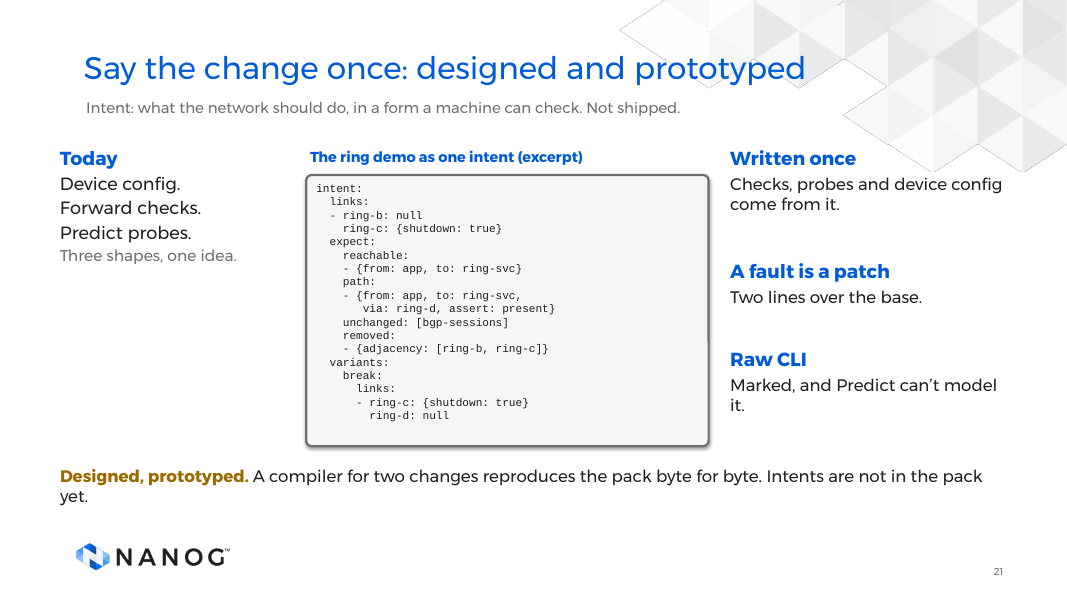
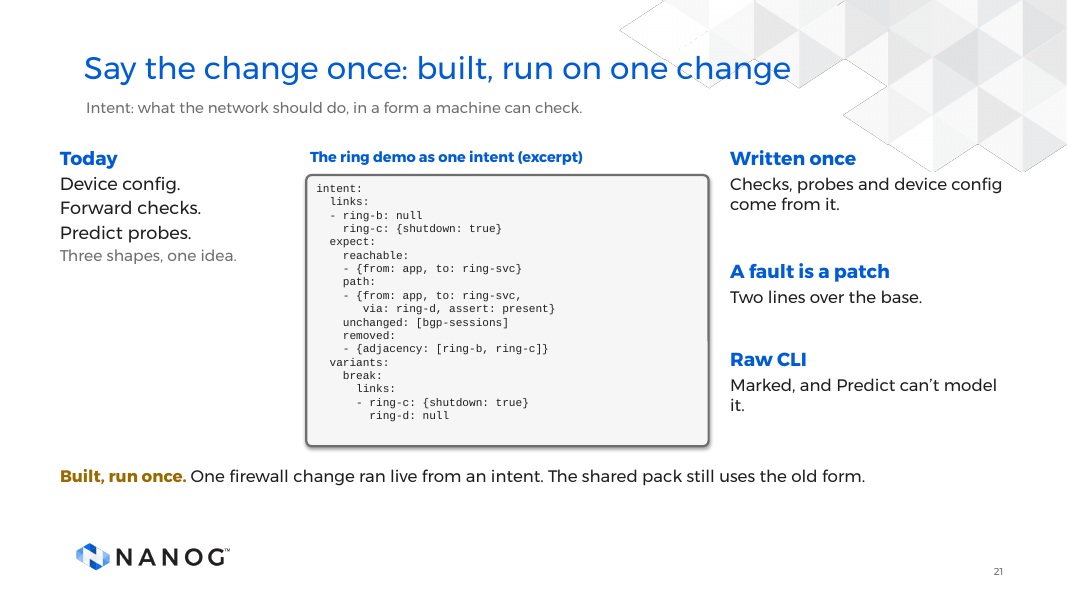
docs: NANOG 98 talk, deck v15

Changed region(s): [[0.0619, 0.78, 0.9278, 0.84], [0.3711, 0.09, 0.7732, 0.21]]

diff --git a/docs/talks/nanog98/README.md b/docs/talks/nanog98/README.md
@@ -1,10 +1,10 @@
 # NANOG 98: What Building a Network Emulation Platform Taught Me About Digital Twins
 
-Monday 2026-10-19, 2:00 PM Eastern, Versailles. 45 minutes including Q&A. Deck v14 (final slides). 25 presented slides (39:00), Questions (6:00), and an appendix that is not presented.
+Monday 2026-10-19, 2:00 PM Eastern, Versailles. 45 minutes including Q&A. Deck v15: 25 presented slides (39:00), Questions (6:00), and an appendix that is not presented.
 
 Each slide below is the rendered slide followed by its speaker notes. Click cues are listed at the end of the notes. The source is the v14 deck; the demo clip on slide 19 is not embedded here.
 
-Labels used in the talk: *proven live*, *off by default*, *designed and prototyped*. 
+Labels used in the talk: *proven live*, *off by default*, *designed and prototyped*. See the open-items doc in `docs/drafts/napalm/` for what is built and what is not.
 
 ---
 
@@ -962,7 +962,7 @@ How I'd like to write changes.
 
 ---
 
-## 21. Say the change once: designed and prototyped
+## 21. Say the change once: built, run on one change
 
 ![slide 21](slides/s-21.png)
 
@@ -976,7 +976,7 @@ First, what I mean by intent, because the word gets stretched. Intent here is a 
 
 
 
-Now two things on this slide, and I want to keep them apart: what exists, and what is only designed.
+Now two things on this slide, and I want to keep them apart: what is in use, and what has run once.
 
 
 
@@ -984,7 +984,7 @@ What exists: the deployment pack. Each change in it states its device config, it
 
 
 
-What's designed: say the change once. One vendor-neutral intent, in netlab's own attribute names. The expected outcomes are written once: who must reach what, which path rides ring-d, which adjacency is meant to disappear. The checks, the probes and the per-vendor config are derived from that. A planted fault is a small patch over the base, the break variant on the slide is two lines. Raw CLI that Forward can't model goes through a marked escape hatch.
+What's built: say the change once. One vendor-neutral intent, in netlab's own attribute names. The expected outcomes are written once: who must reach what, which path rides ring-d, which adjacency is meant to disappear. The checks, the probes and the per-vendor config are derived from that. A planted fault is a small patch over the base, the break variant on the slide is two lines. Raw CLI that Forward can't model goes through a marked escape hatch.
 
 
 
@@ -992,7 +992,7 @@ Why it matters: the same intent drives the lab and the twin. What I apply and wh
 
 
 
-Status, exactly: designed and prototyped. A compiler for two changes reproduces the pack byte for byte. Intents are not in the pack, and the product doesn't read them. Earlier, a throwaway prototype compiled the six fleet40 changes and compared its output with the pack that exists today: 59 of 60 comparisons matched, 83 of 88 per-device deltas byte-identical. The one failure was a real finding: two hand-written packs ordered their stanzas differently. If someone asks whether it's in use, the answer is no.
+Status, exactly: built, and run once. The pack loader accepts an intent. When someone runs the change, the server reads the firewall's own running config for the zones and rule names the compiler checks against, and refuses if the read is missing, stale, or the intent names something the firewall does not have. The intent for the firewall change compiled to the same delta as the old form, for the good version and the planted fault. The planted fault was held by the Predict pre-flight before any device was touched. The good version was applied and Forward confirmed it: 118 of 118 checks, no regressions. The live run is 394f25f2-4260-45c2-a576-3492c420bf89. It ran from a deployment's own pack. The shared pack still uses the old form. Earlier, a throwaway prototype compiled the six fleet40 changes and compared its output with the pack of the day: 59 of 60 comparisons matched, 83 of 88 per-device deltas byte-identical; the one failure was a real finding: two hand-written packs ordered their stanzas differently. If someone asks whether it's in use: one change, once. It is not how the pack works yet.
 
 
 
@@ -1008,7 +1008,7 @@ CLICK CUES
 
 5. On click: Raw CLI / Marked, and Predict can’t model it..
 
-6. On click: Designed, prototyped. A compiler for two changes.
+6. On click: Built, run once. One firewall change ran live fr.
 
 
 
